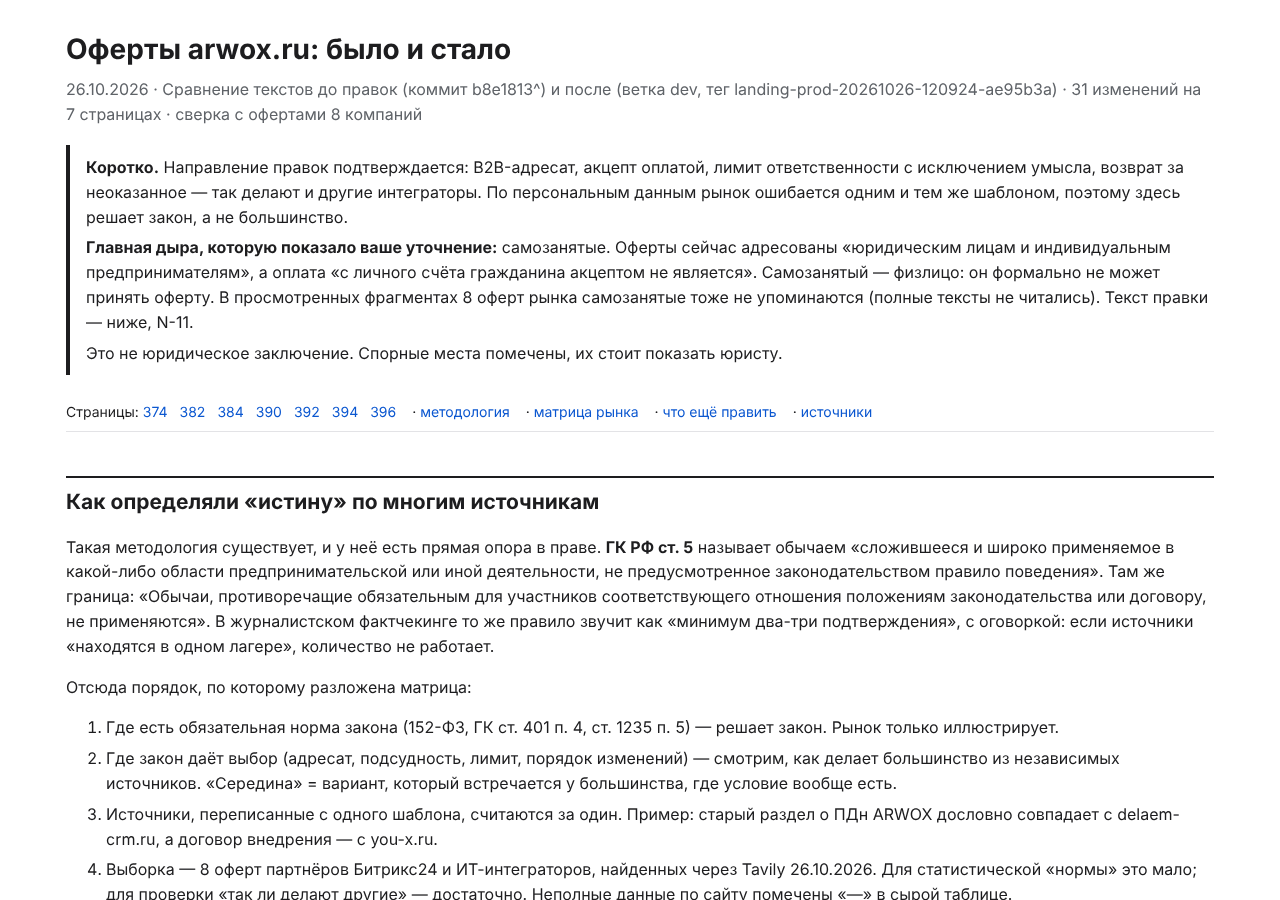
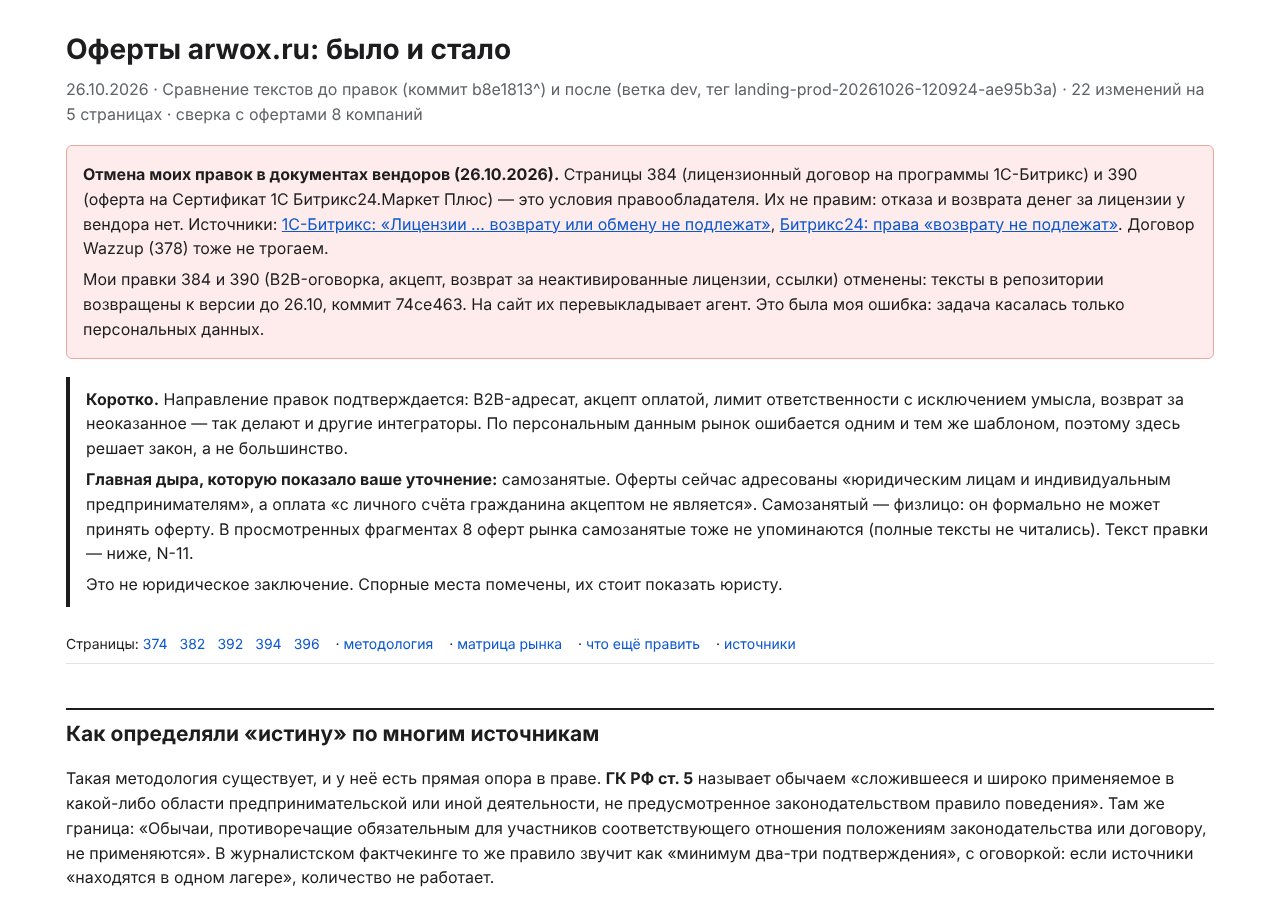
docs(research): offers HTML without vendor pages 384/390, retraction notice
Claude-Session: https://claude.ai/code/session_01KitXxE3W1ZNvpX8CFxDt2e

Changed region(s): [[0.0312, 0.4356, 0.9375, 1.0], [0.0312, 0.1244, 0.9375, 0.4044], [0.8438, 0.0933, 0.9375, 0.1244]]

diff --git a/docs/research/2026-10-26-offers-diff.html b/docs/research/2026-10-26-offers-diff.html
@@ -26,21 +26,26 @@ del{background:var(--del);text-decoration:line-through} ins{background:var(--ins
 .m-ok{background:#e9f6ec;border-color:#9fd3ab} .m-no{background:#fdeceb;border-color:#eba7a0} .m-split{background:#fff4dc;border-color:#e6c46e} .m-none{background:#f2f2f3;border-color:#d0d0d4}
 .warn{background:var(--warn);border:1px solid var(--warnb);padding:6px 10px;border-radius:4px}
 .tw{overflow-x:auto} .tw table{min-width:640px}
+.retract{background:#fdeceb;border:1px solid #eba7a0;border-radius:6px;padding:10px 16px;margin:18px 0} .retract p{margin:6px 0}
 .fix{background:#f7f8fb;border:1px solid var(--line);padding:10px 14px;border-radius:6px;margin:10px 0}
 .fix code{white-space:pre-wrap}
 ol.method li{margin:6px 0}
 @media (max-width:760px){.cols{grid-template-columns:1fr} .was{border-right:0;border-bottom:1px solid var(--wasb)} tbody th{width:auto}}
 </style></head><body><main>
 <h1>Оферты arwox.ru: было и стало</h1>
-<p class="sub">26.10.2026 · Сравнение текстов до правок (коммит b8e1813^) и после (ветка dev, тег landing-prod-20261026-120924-ae95b3a) · 31 изменений на 7 страницах · сверка с офертами 8 компаний</p>
+<p class="sub">26.10.2026 · Сравнение текстов до правок (коммит b8e1813^) и после (ветка dev, тег landing-prod-20261026-120924-ae95b3a) · 22 изменений на 5 страницах · сверка с офертами 8 компаний</p>
 
+<div class="retract">
+<p><b>Отмена моих правок в документах вендоров (26.10.2026).</b> Страницы 384 (лицензионный договор на программы 1С-Битрикс) и 390 (оферта на Сертификат 1С Битрикс24.Маркет Плюс) — это условия правообладателя. Их не правим: отказа и возврата денег за лицензии у вендора нет. Источники: <a href="https://www.1c-bitrix.kz/support/faq/index.php?ELEMENT_ID=6528235">1С-Битрикс: «Лицензии … возврату или обмену не подлежат»</a>, <a href="https://helpdesk.bitrix24.ru/open/27017682">Битрикс24: права «возврату не подлежат»</a>. Договор Wazzup (378) тоже не трогаем.</p>
+<p>Мои правки 384 и 390 (B2B-оговорка, акцепт, возврат за неактивированные лицензии, ссылки) отменены: тексты в репозитории возвращены к версии до 26.10, коммит 74ce463. На сайт их перевыкладывает агент. Это была моя ошибка: задача касалась только персональных данных.</p>
+</div>
 <div class="lead">
 <p><b>Коротко.</b> Направление правок подтверждается: B2B-адресат, акцепт оплатой, лимит ответственности с исключением умысла, возврат за неоказанное — так делают и другие интеграторы. По персональным данным рынок ошибается одним и тем же шаблоном, поэтому здесь решает закон, а не большинство.</p>
 <p><b>Главная дыра, которую показало ваше уточнение:</b> самозанятые. Оферты сейчас адресованы «юридическим лицам и индивидуальным предпринимателям», а оплата «с личного счёта гражданина акцептом не является». Самозанятый — физлицо: он формально не может принять оферту. В просмотренных фрагментах 8 оферт рынка самозанятые тоже не упоминаются (полные тексты не читались). Текст правки — ниже, N-11.</p>
 <p>Это не юридическое заключение. Спорные места помечены, их стоит показать юристу.</p>
 </div>
 
-<nav>Страницы: <a href="#p374">374</a><a href="#p382">382</a><a href="#p384">384</a><a href="#p390">390</a><a href="#p392">392</a><a href="#p394">394</a><a href="#p396">396</a> · <a href="#method">методология</a> · <a href="#matrix">матрица рынка</a> · <a href="#fixes">что ещё править</a> · <a href="#src">источники</a></nav>
+<nav>Страницы: <a href="#p374">374</a><a href="#p382">382</a><a href="#p392">392</a><a href="#p394">394</a><a href="#p396">396</a> · <a href="#method">методология</a> · <a href="#matrix">матрица рынка</a> · <a href="#fixes">что ещё править</a> · <a href="#src">источники</a></nav>
 
 <h2 id="method">Как определяли «истину» по многим источникам</h2>
 <p>Такая методология существует, и у неё есть прямая опора в праве. <b>ГК РФ ст. 5</b> называет обычаем «сложившееся и широко применяемое в какой-либо области предпринимательской или иной деятельности, не предусмотренное законодательством правило поведения». Там же граница: «Обычаи, противоречащие обязательным для участников соответствующего отношения положениям законодательства или договору, не применяются». В журналистском фактчекинге то же правило звучит как «минимум два-три подтверждения», с оговоркой: если источники «находятся в одном лагере», количество не работает.</p>
@@ -53,7 +58,7 @@ ol.method li{margin:6px 0}
 </ol>
 
 <h2 id="matrix">Матрица: ARWOX против рынка</h2>
-<div class="tw"><table><thead><tr><th>Условие</th><th>ARWOX сейчас</th><th>Рынок (8 оферт)</th><th>Вывод</th></tr></thead><tbody><tr><th>Кому адресована оферта</th><td>только юрлица и ИП (384, 392, 394; 390 — п. 1.6)</td><td>B2B — 4 из 8, «любому лицу» — 4 из 8</td><td>Середины нет, решает состав клиентов. Ваши клиенты — бизнес, B2B оправдан. <b>Но самозанятых нет в просмотренных фрагментах ни одной из 8 оферт и нет у нас</b> — нужна правка N-11.</td></tr><tr><th>Акцепт</th><td>оплата счёта</td><td>7 из 8 прямо; installsoft — «счёт-оферта»</td><td>Совпадает с рынком.</td></tr><tr><th>Изменение условий</th><td>392 п. 1.4 — «в любое время», с публикации; п. 2.2.3 — за 30 дней; 394 п. 3.2.7 — в одностороннем порядке</td><td>с уведомлением или без влияния на заключённые — 3 из 4 (dgtor, installsoft, kazar); произвольно — 1 из 4 (atira)</td><td>392 п. 1.4 — против большинства и против собственного п. 2.2.3. Правка N-02.</td></tr><tr><th>Ограничение ответственности</th><td>стоимостью услуг, кроме умысла</td><td>стоимостью услуг — delaem-crm; без ответственности, кроме умысла — atira</td><td>Совпадает. Исключение умысла есть у atira и требуется ГК ст. 401 п. 4.</td></tr><tr><th>Персональные данные</th><td>основание — договор; поручение по ст. 6 ч. 3; согласие отдельно</td><td>согласие встроено в оферту — 2 из 2 (delaem-crm, installsoft)</td><td>Рынок ошибается одинаково — это один шаблон. Решает 152-ФЗ ст. 9 ч. 1, а не большинство.</td></tr><tr><th>Споры</th><td>суд по месту Исполнителя</td><td>конкретный суд / по месту Исполнителя — 4 из 4 (atira, dgtor, kazar, you-x)</td><td>Совпадает. Для B2B допустимо (dgtor прямо ссылается на ст. 37 АПК — норму сам не открывал, UNVERIFIED).</td></tr><tr><th>Возврат денег при расторжении</th><td>за неоказанное — да; активированные лицензии и текущий период пакета — нет</td><td>возврат остатка — 2 из 2 (dgtor, installsoft)</td><td>Совпадает с рынком после правки U7.</td></tr></tbody></table></div>
+<div class="tw"><table><thead><tr><th>Условие</th><th>ARWOX сейчас</th><th>Рынок (8 оферт)</th><th>Вывод</th></tr></thead><tbody><tr><th>Кому адресована оферта</th><td>только юрлица и ИП (392, 394)</td><td>B2B — 4 из 8, «любому лицу» — 4 из 8</td><td>Середины нет, решает состав клиентов. Ваши клиенты — бизнес, B2B оправдан. <b>Но самозанятых нет в просмотренных фрагментах ни одной из 8 оферт и нет у нас</b> — нужна правка N-11.</td></tr><tr><th>Акцепт</th><td>оплата счёта</td><td>7 из 8 прямо; installsoft — «счёт-оферта»</td><td>Совпадает с рынком.</td></tr><tr><th>Изменение условий</th><td>392 п. 1.4 — «в любое время», с публикации; п. 2.2.3 — за 30 дней; 394 п. 3.2.7 — в одностороннем порядке</td><td>с уведомлением или без влияния на заключённые — 3 из 4 (dgtor, installsoft, kazar); произвольно — 1 из 4 (atira)</td><td>392 п. 1.4 — против большинства и против собственного п. 2.2.3. Правка N-02.</td></tr><tr><th>Ограничение ответственности</th><td>стоимостью услуг, кроме умысла</td><td>стоимостью услуг — delaem-crm; без ответственности, кроме умысла — atira</td><td>Совпадает. Исключение умысла есть у atira и требуется ГК ст. 401 п. 4.</td></tr><tr><th>Персональные данные</th><td>основание — договор; поручение по ст. 6 ч. 3; согласие отдельно</td><td>согласие встроено в оферту — 2 из 2 (delaem-crm, installsoft)</td><td>Рынок ошибается одинаково — это один шаблон. Решает 152-ФЗ ст. 9 ч. 1, а не большинство.</td></tr><tr><th>Споры</th><td>суд по месту Исполнителя</td><td>конкретный суд / по месту Исполнителя — 4 из 4 (atira, dgtor, kazar, you-x)</td><td>Совпадает. Для B2B допустимо (dgtor прямо ссылается на ст. 37 АПК — норму сам не открывал, UNVERIFIED).</td></tr><tr><th>Возврат денег при расторжении (техподдержка 394)</th><td>за неоказанное — да; текущий оплаченный период пакета — нет</td><td>возврат остатка — 2 из 2 (dgtor, installsoft)</td><td>Совпадает с рынком после правки U7.</td></tr></tbody></table></div>
 <p class="sub">Сырые цитаты по каждому сайту: <code>docs/research/offers-diff/market-sources.md</code>.</p>
 
 <h2>Было → стало, по страницам</h2>
@@ -66,42 +71,6 @@ ol.method li{margin:6px 0}
 <div class="cols"><div class="was"><div class="tag">было</div><p><del>4. Условия обработки и использования персональных данных. ¶ 4.1 Принимая условия настоящего Соглашения Пользователь выражает своей волей и в своем интересе безусловное согласие на: Обработку персональных данных в отдельном соглашение ¶ Настоящее согласие действует до момента его отзыва Пользователем путем направления соответствующего уведомления на электронный адрес office@arwox.ru ¶ 4.2 Соглашаясь с условиями настоящего Соглашения Пользователь свободно, своей волей и в своем интересе дает конкретное, предметное, информированное, сознательное и однозначное согласие на получение смс-сообщений, сообщений по электронной почте о деятельности Сайта, рекламы, проводимых мероприятиях, отправляемых владельцем Сайта или третьими лицами по его поручению.. ¶ Настоящее согласие действует до момента его отзыва Пользователем путем направления соответствующего уведомления на электронный адрес office@arwox.ru ¶ 4.3 Пользователь согласен с тем, что отзыв согласия на обработку персональных данных влечёт за собой уничтожение всех записей, содержащих персональные данные Пользователя, в системах обработки персональных данных Компании, что может сделать невозможным исполнение договора не по вине Компании.</del></p></div>
 <div class="now"><div class="tag">стало</div><p><ins>4. Персональные данные ¶ 4.1. Пользование Сайтом не является согласием на обработку персональных данных. Персональные данные, которые Пользователь указывает в формах на Сайте, обрабатываются на основании отдельного согласия, которое Пользователь даёт отметкой в форме (https://arwox.ru/legal/soglasie-na-obrabotku-personalnyh-dannyh/), и в порядке, описанном в Политике обработки персональных данных (https://arwox.ru/legal/politika-obrabotka-personalnyh-dannyh/). ¶ 4.2. Рекламные рассылки Компания направляет только при наличии отдельного предварительного согласия Пользователя на получение рекламы (ч. 1 ст. 18 Федерального закона № 38-ФЗ «О рекламе»).</ins></p></div></div>
 <div class="why"><p><b>Почему.</b> U8, то же, что в 374. Страница — почти полный дубль 374.</p><p><span class="badge m-no">Рынок против, решает закон</span> Рынок не подтверждает: delaem-crm.ru и installsoft.su встраивают согласие в оферту, как было у нас. Решает закон (152-ФЗ ст. 9 ч. 1), а не большинство.</p></div>
-</article></section><section class="page" id="p384"><h3><span class="lid">384</span> Лицензионный договор (оферта) · <a href="https://arwox.ru/legal/dogovor-oferta-licenzionnyj-dogovor-bitrix24/">открыть на сайте</a></h3><article class="hunk">
-<div class="cols"><div class="was"><div class="tag">было</div><p>Текст настоящего Договора (далее по тексту -Договор) Расположен в сети Интернет по адресу https://arwox.ru/legal/dogovor-oferta-licenzionnyj-dogovor-bitrix24/ Лицензионный Договор на предоставление права использования программ для ЭВМ Данный документ является официальным предложением <del>любым</del> <del>физическим</del> и <del>юридическим</del> <del>лицам,</del> (публичной офертой) Индивидуального предпринимателя Димитрюк Андрей Александрович именуемый в дальнейшем «Лицензиар», действующий на основании листа записи ЕГРИП (321091700006784) обладает правом на заключение настоящего Договора на основании объема прав, предоставленных Правообладателем в рамках соответствующего лицензионного договора, в соответствии с п. 2 ст.437 Гражданского кодекса Российской Федерации предлагает <del>любому</del> <del>лицу,</del> желающему приобрести неисключительные права на использование программ для ЭВМ и баз данных, заключить настоящий Договор на нижеследующих условиях.</p></div>
-<div class="now"><div class="tag">стало</div><p>Текст настоящего Договора (далее по тексту -Договор) Расположен в сети Интернет по адресу https://arwox.ru/legal/dogovor-oferta-licenzionnyj-dogovor-bitrix24/ Лицензионный Договор на предоставление права использования программ для ЭВМ Данный документ является официальным предложением <ins>юридическим</ins> <ins>лицам</ins> и <ins>индивидуальным</ins> <ins>предпринимателям,</ins> (публичной офертой) Индивидуального предпринимателя Димитрюк Андрей Александрович именуемый в дальнейшем «Лицензиар», действующий на основании листа записи ЕГРИП (321091700006784) обладает правом на заключение настоящего Договора на основании объема прав, предоставленных Правообладателем в рамках соответствующего лицензионного договора, в соответствии с п. 2 ст.437 Гражданского кодекса Российской Федерации предлагает <ins>юридическому</ins> <ins>лицу или индивидуальному предпринимателю,</ins> желающему приобрести неисключительные права на использование программ для ЭВМ и баз данных, заключить настоящий Договор на нижеследующих условиях.<ins> ¶ Настоящая оферта адресована исключительно юридическим лицам и индивидуальным предпринимателям, которые приобретают услуги (права) для нужд, связанных с осуществлением предпринимательской или иной экономической деятельности. Оферта не адресована гражданам, заказывающим услуги для личных, семейных, домашних и иных нужд, не связанных с осуществлением предпринимательской деятельности. Акцептом оферты признаётся только оплата счёта Исполнителя с расчётного счёта Заказчика — юридического лица или индивидуального предпринимателя — с указанием номера счёта в назначении платежа. Оплата с личной банковской карты или личного счёта гражданина акцептом не является, и такие денежные средства возвращаются плательщику.</ins></p></div></div>
-<div class="why"><p><b>Почему.</b> U4. Оферта была адресована «любым физическим и юридическим лицам». Теперь — только бизнесу, чтобы к договору не применялся Закон о защите прав потребителей (преамбула ЗоЗПП: потребитель — гражданин для нужд, «не связанных с осуществлением предпринимательской деятельности»).</p><p><span class="badge m-split">Рынок разделён</span> Рынок разделён 4 на 4: только бизнесу адресуют dgtor.ru, installsoft.su, iline-group.ru, setinik.ru; «любому лицу» — atira.ru, kazar.in, you-x.ru, delaem-crm.ru. Выбор B2B законен и совпадает с вашими клиентами.</p><p class="warn">Самозанятые оговоркой не охвачены — см. N-11.</p></div>
-</article><article class="hunk">
-<div class="cols"><div class="was"><div class="tag">было</div><p>3.1. Настоящий Договор вступает в силу с момента <del>его</del> <del>подписания</del> <del>обеими</del> <del>Сторонами</del> и действует в отношении каждой Программы в течение срока, на который предоставлена соответствующая Лицензия.</p></div>
-<div class="now"><div class="tag">стало</div><p>3.1. Настоящий Договор вступает в силу с момента <ins>акцепта</ins> <ins>оферты</ins> <ins>в</ins> <ins>порядке, указанном в настоящем Договоре</ins> и действует в отношении каждой Программы в течение срока, на который предоставлена соответствующая Лицензия.</p></div></div>
-<div class="why"><p><b>Почему.</b> G14. Договор «вступал в силу с подписания», то есть акцепта оплатой фактически не было. ГК ст. 438 п. 3: договор заключается действием, указанным в оферте.</p><p><span class="badge m-ok">Рынок подтверждает</span> Подтверждает 7 из 8 прямо: акцепт — оплата счёта; у installsoft.su — через «счёт-оферту», формулировку оплаты в просмотренном фрагменте не видно.</p></div>
-</article><article class="hunk">
-<div class="cols"><div class="was"><div class="tag">было</div><p>6.3. Программа и сопутствующая документация к ней предоставляются Лицензиату в соответствии с общепринятым в международной практике принципом «как есть» («as is») — в части, не противоречащей обязательным нормам законодательства Российской <del>Федерации (для потребителей — с учётом Закона РФ «О защите прав потребителей»),</del> т.е. за проблемы, возникающие в процессе установки, обновления, поддержки и эксплуатации Программы (в том числе проблемы совместимости с другими программными продуктами, пакетами, драйверами и др.; проблемы, возникающие из-за неоднозначного толкования сопроводительной документации, несоответствия результатов использования Программы ожиданиям Лицензиата и т.п.), Лицензиар ответственности не несет. Лицензиар не несет ответственности по обязательствам Правообладателя в случае подписания Лицензиата Соглашения с конечным пользователем в п. 5.2.4..</p></div>
-<div class="now"><div class="tag">стало</div><p>6.3. Программа и сопутствующая документация к ней предоставляются Лицензиату в соответствии с общепринятым в международной практике принципом «как есть» («as is») — в части, не противоречащей обязательным нормам законодательства Российской <ins>Федерации,</ins> т.е. за проблемы, возникающие в процессе установки, обновления, поддержки и эксплуатации Программы (в том числе проблемы совместимости с другими программными продуктами, пакетами, драйверами и др.; проблемы, возникающие из-за неоднозначного толкования сопроводительной документации, несоответствия результатов использования Программы ожиданиям Лицензиата и т.п.), Лицензиар ответственности не несет. Лицензиар не несет ответственности по обязательствам Правообладателя в случае подписания Лицензиата Соглашения с конечным пользователем в п. 5.2.4..</p></div></div>
-<div class="why"><p><b>Почему.</b> U4. После перехода на B2B ссылка на потребителей противоречила бы оговорке.</p><p><span class="badge m-none">Без сравнения</span> Рынок не сравнивался: правка техническая (ссылка, опечатка, нумерация) или вытекает только из закона.</p></div>
-</article><article class="hunk">
-<div class="cols"><div class="was"><div class="tag">было</div><p>8.1. Стороны Договора не имеют права полностью или частично, единолично или обоюдно передавать свои права и обязанности, вытекающие из настоящего Договора, третьим лицам без предварительного письменного согласия другой <del>Стороны, за исключением случая, указанного в пункте 5.4. настоящего Договора.</del></p></div>
-<div class="now"><div class="tag">стало</div><p>8.1. Стороны Договора не имеют права полностью или частично, единолично или обоюдно передавать свои права и обязанности, вытекающие из настоящего Договора, третьим лицам без предварительного письменного согласия другой <ins>Стороны.</ins></p></div></div>
-<div class="why"><p><b>Почему.</b> U11. Ссылка на несуществующий п. 5.4 удалена.</p><p><span class="badge m-none">Без сравнения</span> Рынок не сравнивался: правка техническая (ссылка, опечатка, нумерация) или вытекает только из закона.</p></div>
-</article><article class="hunk">
-<div class="cols"><div class="was"><div class="tag">было</div><p><del>8.5. При расторжении Лицензиаром Договора действие предоставленных Лицензиату Лицензий на Программы прекращается, а перерасчет и возврат вознаграждения не производится.</del></p></div>
-<div class="now"><div class="tag">стало</div><p><ins>8.5. При расторжении Лицензиаром Договора по основаниям п. 6.6 вознаграждение за уже активированные Лицензии не возвращается. Вознаграждение за неактивированные Лицензии возвращается за вычетом фактически понесённых Лицензиаром расходов.</ins></p></div></div>
-<div class="why"><p><b>Почему.</b> U7. Было: при расторжении деньги не возвращаются никогда. Стало: не возвращаются только за уже активированные лицензии. ГК ст. 310 п. 3 и Пленум ВС № 54 п. 15: плату за отказ можно установить, но не за отказ из-за нарушения другой стороны.</p><p><span class="badge m-ok">Рынок подтверждает</span> Подтверждает 2 из 2, где есть условие: dgtor.ru возвращает остаток при отказе, installsoft.su — деньги за вычетом расходов.</p></div>
-</article><article class="hunk">
-<div class="cols"><div class="was"><div class="tag">было</div><p>8.7. Договор составлен на русском языке и размещен по следующему адресу в сети Интернет: <del>https://arwox.ru/legal/user-agreement/</del> и имеет полную юридическую силу.</p></div>
-<div class="now"><div class="tag">стало</div><p>8.7. Договор составлен на русском языке и размещен по следующему адресу в сети Интернет: <ins>https://arwox.ru/legal/dogovor-oferta-licenzionnyj-dogovor-bitrix24/</ins> и имеет полную юридическую силу.</p></div></div>
-<div class="why"><p><b>Почему.</b> U11. Ссылка вела на другой документ.</p><p><span class="badge m-none">Без сравнения</span> Рынок не сравнивался: правка техническая (ссылка, опечатка, нумерация) или вытекает только из закона.</p></div>
-</article></section><section class="page" id="p390"><h3><span class="lid">390</span> Оферта на Сертификат 1С Битрикс24.Маркет Плюс · <a href="https://arwox.ru/legal/oferta-na-zaklyuchenie-dogovora-sertifikata-1S-Bitriks24/">открыть на сайте</a></h3><article class="hunk">
-<div class="cols"><div class="was"><div class="tag">было</div><p>1.4. Заказчик может в любой момент отказаться от Доступа, при этом такой отказ вступает в силу в момент окончания срока активности действующего Доступа, при этом возврат оплаченной стоимости производится за вычетом фактически понесённых и документально подтверждённых расходов Компании; для лицензий и сертификатов третьих лиц возврат осуществляется в порядке, установленном правообладателем. <del>Для Заказчиков — физических лиц, приобретающих услуги для личных нужд, применяются положения ст. 32 Закона РФ «О защите прав потребителей». </del>¶ 1.4.1. Заказчик подтверждает, что приобретает доступ с пониманием функциональности Каталога, перечня решений и условий использования, претензии к содержанию Каталога или программных продуктов не являются самостоятельным основанием для возврата, за исключением случаев, предусмотренных законодательством <del>РФ (в том числе ст. 32 Закона РФ «О защите прав потребителей»).</del></p></div>
-<div class="now"><div class="tag">стало</div><p>1.4. Заказчик может в любой момент отказаться от Доступа, при этом такой отказ вступает в силу в момент окончания срока активности действующего Доступа, при этом возврат оплаченной стоимости производится за вычетом фактически понесённых и документально подтверждённых расходов Компании; для лицензий и сертификатов третьих лиц возврат осуществляется в порядке, установленном правообладателем. ¶ 1.4.1. Заказчик подтверждает, что приобретает доступ с пониманием функциональности Каталога, перечня решений и условий использования, претензии к содержанию Каталога или программных продуктов не являются самостоятельным основанием для возврата, за исключением случаев, предусмотренных законодательством <ins>РФ.</ins></p></div></div>
-<div class="why"><p><b>Почему.</b> U4. Упоминания ЗоЗПП убраны: оферта B2B (п. 1.6).</p><p><span class="badge m-none">Без сравнения</span> Рынок не сравнивался: правка техническая (ссылка, опечатка, нумерация) или вытекает только из закона.</p></div>
-</article><article class="hunk">
-<div class="cols"><div class="was"><div class="tag">было</div><p>1.10. Любые споры сторон в связи с Договором подлежат урегулированию путем переговоров. При невозможности досудебного урегулирования споры подлежат рассмотрению в Арбитражном суде по месту нахождения Компании<del> Исполнителя</del></p></div>
-<div class="now"><div class="tag">стало</div><p>1.10. Любые споры сторон в связи с Договором подлежат урегулированию путем переговоров. При невозможности досудебного урегулирования споры подлежат рассмотрению в Арбитражном суде по месту нахождения Компании</p></div></div>
-<div class="why"><p><b>Почему.</b> U11. Опечатка «Компании Исполнителя».</p><p><span class="badge m-none">Без сравнения</span> Рынок не сравнивался: правка техническая (ссылка, опечатка, нумерация) или вытекает только из закона.</p></div>
-</article><article class="hunk">
-<div class="cols"><div class="was"><div class="tag">было</div><p>2.1. Единственно возможным надлежащим Акцептом в соответствии с пунктом 3 статьи 438 ГК РФ является полная и единовременная оплата Заказчиком Счета, если иное не определено особыми условиями Оферты.</p></div>
-<div class="now"><div class="tag">стало</div><p>2.1. Единственно возможным надлежащим Акцептом в соответствии с пунктом 3 статьи 438 ГК РФ является полная и единовременная оплата Заказчиком Счета, если иное не определено особыми условиями Оферты.<ins> Акцептом оферты признаётся только оплата счёта Исполнителя с расчётного счёта Заказчика — юридического лица или индивидуального предпринимателя — с указанием номера счёта в назначении платежа. Оплата с личной банковской карты или личного счёта гражданина акцептом не является, и такие денежные средства возвращаются плательщику.</ins></p></div></div>
-<div class="why"><p><b>Почему.</b> U4. Акцепт — только оплата с расчётного счёта бизнеса.</p><p><span class="badge m-ok">Рынок подтверждает</span> Подтверждает 7 из 8 прямо: акцепт — оплата счёта; у installsoft.su — через «счёт-оферту», формулировку оплаты в просмотренном фрагменте не видно.</p><p class="warn">Ошибка в моём ТЗ: п. 2.3 по-прежнему признаёт оплату любой банковской картой — противоречие (N-01). Самозанятые не могут акцептовать (N-11).</p></div>
 </article></section><section class="page" id="p392"><h3><span class="lid">392</span> Договор внедрения (оферта) · <a href="https://arwox.ru/legal/dogovor-okazanie-uslug-po-vnedreniiu/">открыть на сайте</a></h3><article class="hunk">
 <div class="cols"><div class="was"><div class="tag">было</div><p><del>Настоящий документ представляет собой письменное предложение («Оферта») Индивидуального предпринимателя Димитрюк Андрей Александрович (далее – Исполнитель) заключить с любым лицом (далее – Заказчик) договор на оказание услуг по внедрению, разработке и автоматизации при работе с различными программными продуктами, включая, но не ограничиваясь, «1С-Битрикс24».</del></p></div>
 <div class="now"><div class="tag">стало</div><p><ins>Настоящий документ представляет собой письменное предложение («Оферта») Индивидуального предпринимателя Димитрюк Андрей Александрович (далее – Исполнитель) заключить с юридическим лицом или индивидуальным предпринимателем (далее – Заказчик) договор на оказание услуг по внедрению, разработке и автоматизации при работе с различными программными продуктами, включая, но не ограничиваясь, «1С-Битрикс24». ¶ Настоящая оферта адресована исключительно юридическим лицам и индивидуальным предпринимателям, которые приобретают услуги (права) для нужд, связанных с осуществлением предпринимательской или иной экономической деятельности. Оферта не адресована гражданам, заказывающим услуги для личных, семейных, домашних и иных нужд, не связанных с осуществлением предпринимательской деятельности. Акцептом оферты признаётся только оплата счёта Исполнителя с расчётного счёта Заказчика — юридического лица или индивидуального предпринимателя — с указанием номера счёта в назначении платежа. Оплата с личной банковской карты или личного счёта гражданина акцептом не является, и такие денежные средства возвращаются плательщику.</ins></p></div></div>
@@ -185,11 +154,11 @@ ol.method li{margin:6px 0}
 </article></section>
 
 <h2 id="fixes">Что ещё нужно исправить</h2>
-<div class="fix"><p><b>N-11. Самозанятые (новое, по вашему уточнению).</b> В 384, 392, 394 (п. B2B) и 390 (п. 2.1) заменить оговорку на:</p>
+<div class="fix"><p><b>N-11. Самозанятые (новое, по вашему уточнению).</b> Только в ваших собственных офертах 392 и 394 (п. B2B) заменить оговорку на. Документы вендоров 384 и 390 не трогаем:</p>
 <p><code>Настоящая оферта адресована юридическим лицам, индивидуальным предпринимателям и физическим лицам, применяющим специальный налоговый режим «Налог на профессиональный доход» (далее — самозанятые), которые приобретают услуги (права) для нужд, связанных с осуществлением предпринимательской или профессиональной деятельности. Оферта не адресована гражданам, заказывающим услуги для личных, семейных, домашних и иных нужд, не связанных с такой деятельностью. Акцептом оферты признаётся оплата счёта Исполнителя: юридическим лицом или индивидуальным предпринимателем — с его расчётного счёта; самозанятым — с его счёта или банковской карты при условии, что до оплаты он сообщил Исполнителю свой ИНН и подтвердил статус плательщика налога на профессиональный доход. Оплата третьими лицами акцептом не является, такие денежные средства возвращаются плательщику.</code></p>
 <p>В 392 п. 3.1 и 394 п. 6.1: «Персональные данные Заказчика — индивидуального предпринимателя» → «Персональные данные Заказчика — индивидуального предпринимателя или самозанятого». Физлица без статуса — только по отдельному подписанному договору, не по оферте.</p>
 <p class="warn">Применяется ли Закон о защите прав потребителей к самозанятому, который покупает услуги для своей деятельности, — прямых источников не нашёл (UNVERIFIED). По тексту закона потребитель — гражданин для нужд, «не связанных с осуществлением предпринимательской деятельности»; формулировка выше удерживает самозанятого за этой границей. Вопрос юристу.</p></div>
-<div class="fix"><p><b>N-01 … N-10</b> — уже в репозитории, <code>docs/validator/offers-findings.md</code> (ветка dev): противоречие 390 пп. 2.1/2.3, 392 п. 1.4 против п. 2.2.3, старые даты редакций, мусор в документах агента, ошибки ссылок, не сделанные U1, U2, U9, U12. Спорные места по 152-ФЗ — F-390-01, F-396-01, F-396-02, F-392-01, F-394-01.</p></div>
+<div class="fix"><p><b>N-01 … N-10</b> — уже в репозитории, <code>docs/validator/offers-findings.md</code> (ветка dev): 392 п. 1.4 против п. 2.2.3, старые даты редакций, мусор в документах агента, ошибки ссылок, не сделанные U1, U2, U9, U12. Спорные места по 152-ФЗ — F-396-01, F-396-02, F-392-01, F-394-01. Пункты по 384 и 390 (F-390-01, N-01) отозваны.</p></div>
 
 <h2 id="src">Источники</h2>
 <ul><li><a href="https://atira.ru/offer-support">atira.ru — техподдержка Б24</a></li><li><a href="https://dgtor.ru/oferta_support_b24">dgtor.ru — техподдержка Б24</a></li><li><a href="https://kazar.in/oferta-bitrix">kazar.in — внедрение Б24</a></li><li><a href="https://you-x.ru/bitrix-24">you-x.ru — внедрение и поддержка Б24</a></li><li><a href="https://delaem-crm.ru/oferta-vnedrenie-i-nastroika">delaem-crm.ru — внедрение и поддержка Б24</a></li><li><a href="https://installsoft.su/dogovor-service.php">installsoft.su — настройка Б24</a></li><li><a href="https://iline-group.ru/license_agreement_bitrix">iline-group.ru — лицензии Б24</a></li><li><a href="https://setinik.ru/dogovor-oferty">setinik.ru — ИТ-услуги (только сниппет поиска)</a></li><li><a href="https://www.consultant.ru/document/cons_doc_LAW_5142/585de80c7025af76bcccaf43322ef6bc8f2817fd">ГК РФ ст. 5. Обычаи</a></li><li><a href="https://mediatoolbox.ru/factchecking">Фактчекинг: 2–3 подтверждения и «один лагерь»</a></li><li><a href="https://www.consultant.ru/document/cons_doc_LAW_61801/6c94959bc017ac80140621762d2ac59f6006b08c/">152-ФЗ ст. 9</a></li><li><a href="https://www.consultant.ru/document/cons_doc_LAW_61801/315f051396c88f1e4f827ba3f2ae313d999a1873/">152-ФЗ ст. 6</a></li><li><a href="https://www.consultant.ru/document/cons_doc_LAW_5142/33c65ab7522b599d12e61cc848aebcd09e651f9c/">ГК РФ ст. 310</a></li><li><a href="https://www.consultant.ru/document/cons_doc_LAW_5142/94ebfa384dd37d9377ee7b78ab23c150ff69e5b4/">ГК РФ ст. 401</a></li><li><a href="https://www.consultant.ru/document/cons_doc_LAW_64629/640cbca01ece35bc535ffe5e6d96b7988d2daf6b/">ГК РФ ст. 1235</a></li><li><a href="https://www.klerk.ru/user/2065973/682045">Самозанятый — физлицо, может быть и ИП (422-ФЗ, разбор)</a></li></ul>

diff --git a/docs/research/offers-diff/mkdiff.py b/docs/research/offers-diff/mkdiff.py
@@ -1,5 +1,5 @@
 import subprocess,re,html,json,difflib,sys
-BASE='b8e1813^'; HEAD='origin/dev'
+BASE='b8e1813^'; HEAD='HEAD'  # после отката 384/390 (26.10) их изменений нет
 pages={'374':'374/block-9242','382':'382/block-9274','384':'384/block-9282','390':'390/block-9294','392':'392/block-9298','394':'394/block-9302','396':'396/block-9306'}
 def text(rev,p):
     s=subprocess.run(['git','show',f'{rev}:landing/site78/{p}.public.html'],capture_output=True,text=True).stdout

diff --git a/sessions/2026-10-26-revert-vendor-docs.md b/sessions/2026-10-26-revert-vendor-docs.md
@@ -22,3 +22,4 @@
 - Изменения 384/390 после снимка 9075fbf — только коммит b8e1813 (git log). 378 не менялся ни одним коммитом.
 - Восстановлены блоки 384 и 390 из b8e1813^: все 10 файлов побайтно совпадают с версией до 26.10 (sha1). Изменено 4 файла (draft+public 384, 390).
 - AGENTS.md: добавлена запретная зона «Документы вендоров» (384, 390, 378). offers-findings.md: блок отзыва, F-390-01 и N-01 отозваны, N-03 без 384/390.
+- HTML пересобран: 22 изменения на 5 страницах (384/390 убраны), красный блок отмены вверху, матрица и N-11 только для 392/394; Playwright 1280/390: 0 ошибок, без горизонтальной прокрутки.

diff --git a/docs/research/offers-diff/market-sources.md b/docs/research/offers-diff/market-sources.md
@@ -1,3 +1,5 @@
+> 26.10.2026: страницы 384 и 390 — документы вендора 1С-Битрикс, сравнение с рынком к ним не применяется. Правки по ним отменены.
+
 # Рынок: оферты сопоставимых компаний (Tavily, 26.10.2026)
 
 Сырые данные для HTML. Цитаты — из ответов tavily_search и tavily_extract в этой сессии. Компании выбраны как партнёры Битрикс24 или ИТ-интеграторы с публичной офертой на услуги.
